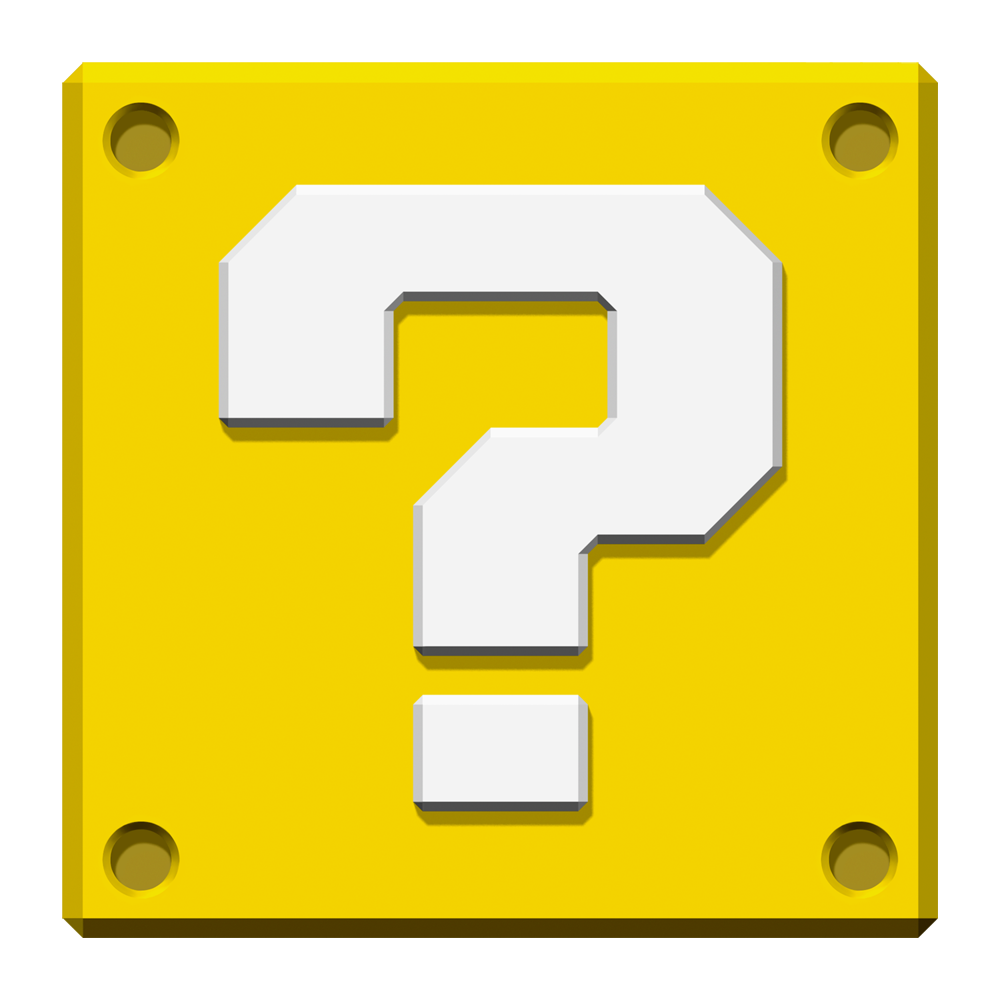
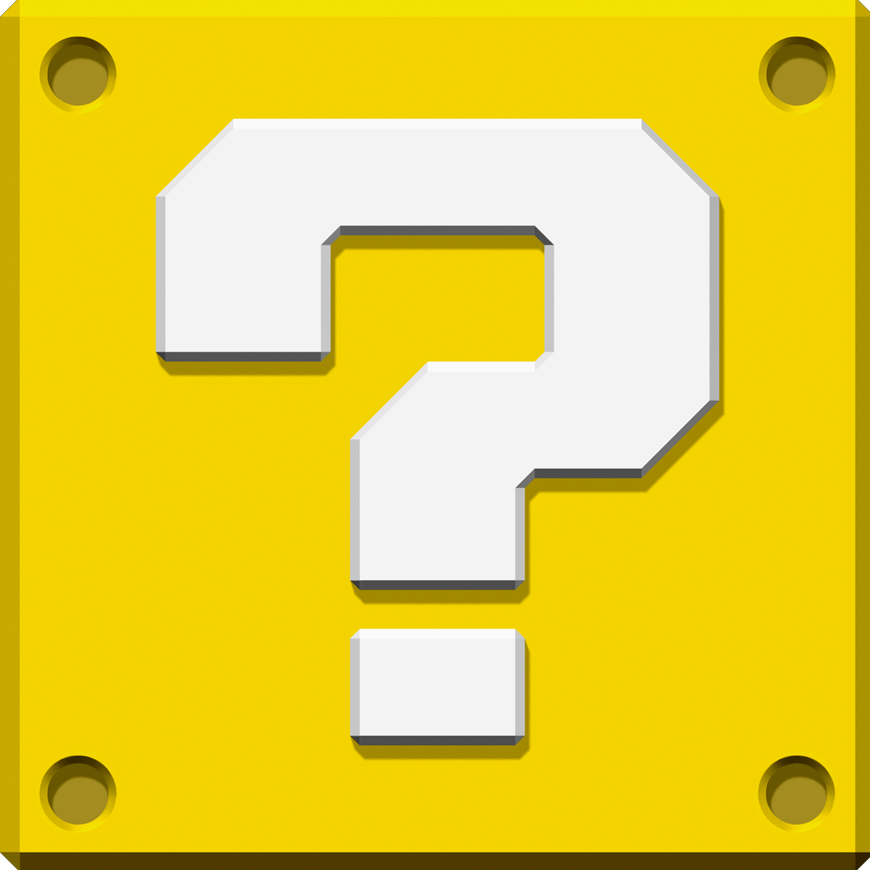
add difficulty

diff --git a/breakout.js b/breakout.js
@@ -1,4 +1,5 @@
 let mouseX;
+let scoreBar;
 let board;
 let boardCtx;
 let boardLeft;
@@ -11,6 +12,7 @@ const PI = Math.PI;
 $(document).ready(function() {
 	//initialize
 	mouseX = 0;
+	scoreBar = $("#score-bar");
 	board = $("#board").get(0);
 	boardCtx = board.getContext("2d");
 	boardLeft = board.getBoundingClientRect().left;
@@ -48,18 +50,21 @@ $(document).ready(function() {
 		$("#level").css("display", "none");
 		$("#main-div").hide();
 		$("#canvas-wrapper").css("display", "block");
+		game.difficulty = 0;
 		game.start();
 	});
 	$("#level-normal").click(function(){
 		$("#level").css("display", "none");
 		$("#main-div").hide();
 		$("#canvas-wrapper").css("display", "block");
+		game.difficulty = 1;
 		game.start();
 	});
 	$("#level-hard").click(function(){
 		$("#level").css("display", "none");
 		$("#main-div").hide();
 		$("#canvas-wrapper").css("display", "block");
+		game.difficulty = 2;
 		game.start();
 	});
 	$("#main-settings-button").click(function(){
@@ -73,11 +78,14 @@ class Game {
 	//생성자
 	constructor() {
 		this.bar = new Bar("src/bar.png", 100, 20, 10);
-		this.brick = new Brick("src/brick.png", 3, 8, 75, 20);
+		this.brick = new Brick("src/block.png", "src/question_block.png", 3, 18, 45, 45, 0, 45, 45);
 		this.ball = new Ball("src/ball.png", 5);
 		this.score = 0;
 		this.life = 0;
-		this.status = 0;
+		this.status = 0; //0: not ready, 1: ready, 2: running
+		this.difficulty = 0; //0: easy, 1: normal, 2: hard
+		this.timer = 0;
+		this.timerPerFrame = 0;
 		this.interval; //update interval
 		//...
 	}
@@ -94,6 +102,7 @@ class Game {
 	update() {
 		game.calculate();
 		game.draw();
+		game.updateScoreBar();
 		//...
 	}
 
@@ -108,19 +117,46 @@ class Game {
 		boardLeft = board.getBoundingClientRect().left;
 		this.score = 0;
 		this.life = 3;
+		switch (this.difficulty) {
+		case 0:
+			this.timer = 999;
+			this.timerPerFrame = 0;
+			this.ball.init(4);
+			this.brick.init(1);
+			break;
+		case 1:
+			this.timer = 180;
+			this.timerPerFrame = 0.01;
+			this.ball.init(5);
+			this.brick.init(1);
+			break;
+		case 2:
+			this.timer = 180;
+			this.timerPerFrame = 0.01;
+			this.ball.init(6);
+			this.brick.init(2);
+			break;
+		default:
+			break;
+		}
 		//...
 	}
 
 	//게임 내 수치 계산 함수
 	calculate() {
+		if(this.timer <= 0) {
+			this.timer = 0;
+			this.life = 0;
+		}
 		if(this.life == 0) {
 			game.stop();
 			this.status = 0;
 		}
 		this.bar.calculate();
-		if(this.status == 2)
+		if(this.status == 2) {
+			this.timer -= this.timerPerFrame;
 			this.ball.calculate(this.bar, this.brick);
-		//console.log("life: " + this.life + ", score: " + this.score);
+		}
 		//...
 	}
 
@@ -130,6 +166,11 @@ class Game {
 		this.bar.draw();
 		this.brick.draw();
 		this.ball.draw();
+	}
+
+	updateScoreBar() {
+		let str = "life: " + this.life + ", score: " + this.score + ", timer: " + parseInt(this.timer);
+		scoreBar.html(str);
 	}
 }
 
@@ -171,6 +212,10 @@ class Ball {
 		this.speed = speed;
 	}
 
+	init(s) {
+		this.speed = s;
+	}
+
 	calculate(bar, brick) {
 		//바닥에 닿았을 때
 		if (this.ballY > (boardHeight + this.ballRadius)) {
@@ -188,7 +233,7 @@ class Ball {
 			else
 				this.angle = 3*PI - this.angle;
 		}
-		if ((this.ballX > (boardWidth-this.ballRadius)) && (Math.cos(this.angle) > 0)) {
+		else if ((this.ballX > (boardWidth-this.ballRadius)) && (Math.cos(this.angle) > 0)) {
 			if (this.angle <= PI)
 				this.angle = PI - this.angle;
 			else
@@ -209,24 +254,23 @@ class Ball {
 		for (let i = 0; i < brick.brickColumnCount; i++) {
 			for (let q = 0; q < brick.brickRowCount; q++) {
 				let b = brick.bricks[i][q];
-				if(b.durability == 0) continue;
+				if(b.durability <= 0) continue;
 				if((this.ballY + this.ballRadius >= b.y) && (this.ballY - this.ballRadius <= b.y + brick.brickHeight)) {
-					if((this.ballX >= b.x) && (this.ballX <= b.x + brick.brickWidth))	{
-						brick.bricks[i][q].durability = 0;
+					if((this.ballX >= b.x) && (this.ballX <= b.x + brick.brickWidth)) {
+						brick.bricks[i][q].durability -= 1;
 						this.angle = 2*PI - this.angle;
-						game.score += 1;
 					}
 				}
 				if((this.ballX + this.ballRadius >= b.x) && (this.ballX - this.ballRadius <= b.x + brick.brickWidth)) {
 					if((this.ballY >= b.y) && (this.ballY <= b.y + brick.brickHeight))	{
-						brick.bricks[i][q].durability = 0;
+						brick.bricks[i][q].durability -= 1;
 						if (this.angle <= PI)
 							this.angle = PI - this.angle;
 						else
 							this.angle = 3*PI - this.angle;
-						game.score += 1;
 					}
 				}
+				if(b.durability <= 0) game.score += 1;
 			}
 		}
 		this.ballX += this.speed * Math.cos(this.angle);
@@ -239,21 +283,26 @@ class Ball {
 }
 
 class Brick {
-	constructor(image, rowNum, colNum, width, height){
-		this.image = new Image();
-		this.image.src = image;
+	constructor(image1, image2, rowNum, colNum, width, height, padding, left, top){
+		this.image1 = new Image();
+		this.image1.src = image1;
+		this.image2 = new Image();
+		this.image2.src = image2;
 		this.brickRowCount = rowNum;
 		this.brickColumnCount = colNum;
-		this.brickPadding = 10;
-		this.brickOffsetTop = 30;
-		this.brickOffsetLeft = 30;
+		this.brickPadding = padding;
+		this.brickOffsetLeft = left;
+		this.brickOffsetTop = top;
 		this.brickWidth = width;
 		this.brickHeight = height;
 		this.bricks = [];
+	}
+
+	init(d) {
 		for(var i=0; i<this.brickColumnCount; i++){
 			this.bricks[i] = [];
 			for(var j=0; j<this.brickRowCount; j++){
-				this.bricks[i][j] = {x: 0, y: 0, durability: 1};
+				this.bricks[i][j] = {x: 0, y: 0, durability: d};
 			}
 		}	
 	}
@@ -261,13 +310,15 @@ class Brick {
 	draw(){
 		for(var i=0; i<this.brickColumnCount; i++){
 			for(var j=0; j<this.brickRowCount; j++){
-				if(this.bricks[i][j].durability == 0) continue;
+				if(this.bricks[i][j].durability <= 0) continue;
 				var brickX = (i*(this.brickWidth+this.brickPadding))+this.brickOffsetLeft;
 				var brickY = (j*(this.brickHeight+this.brickPadding))+this.brickOffsetTop;
 				this.bricks[i][j].x = brickX;
 				this.bricks[i][j].y = brickY;
-				boardCtx.drawImage(this.image, this.bricks[i][j].x, this.bricks[i][j].y, this.brickWidth, this.brickHeight);
-
+				if(this.bricks[i][j].durability == 2)
+					boardCtx.drawImage(this.image2, this.bricks[i][j].x, this.bricks[i][j].y, this.brickWidth, this.brickHeight);
+				if(this.bricks[i][j].durability == 1)
+					boardCtx.drawImage(this.image1, this.bricks[i][j].x, this.bricks[i][j].y, this.brickWidth, this.brickHeight);
 			}
 		}
 	}

diff --git a/breakout.css b/breakout.css
@@ -50,6 +50,7 @@ body {
 #score-bar{
 	width: 900px;
 	height: 80px;
+	background-color: #999999;
 }
 
 #board{
